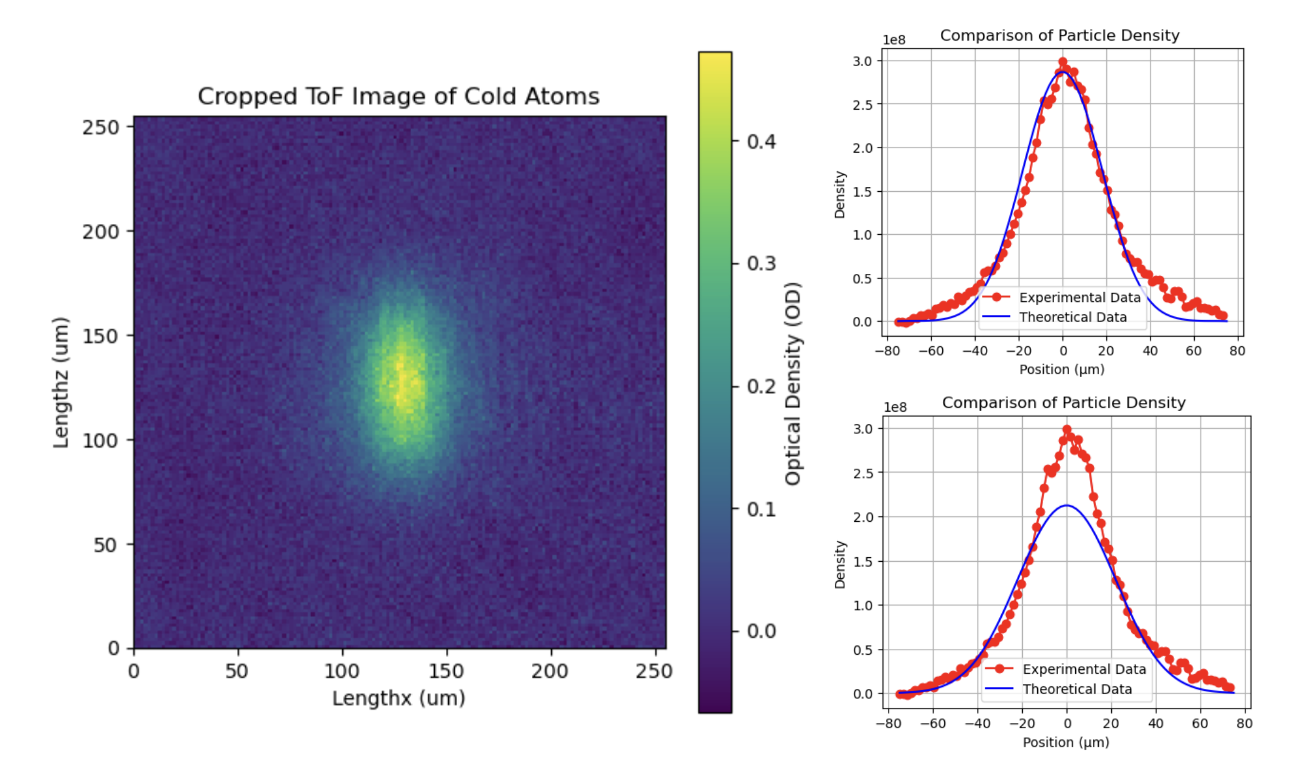
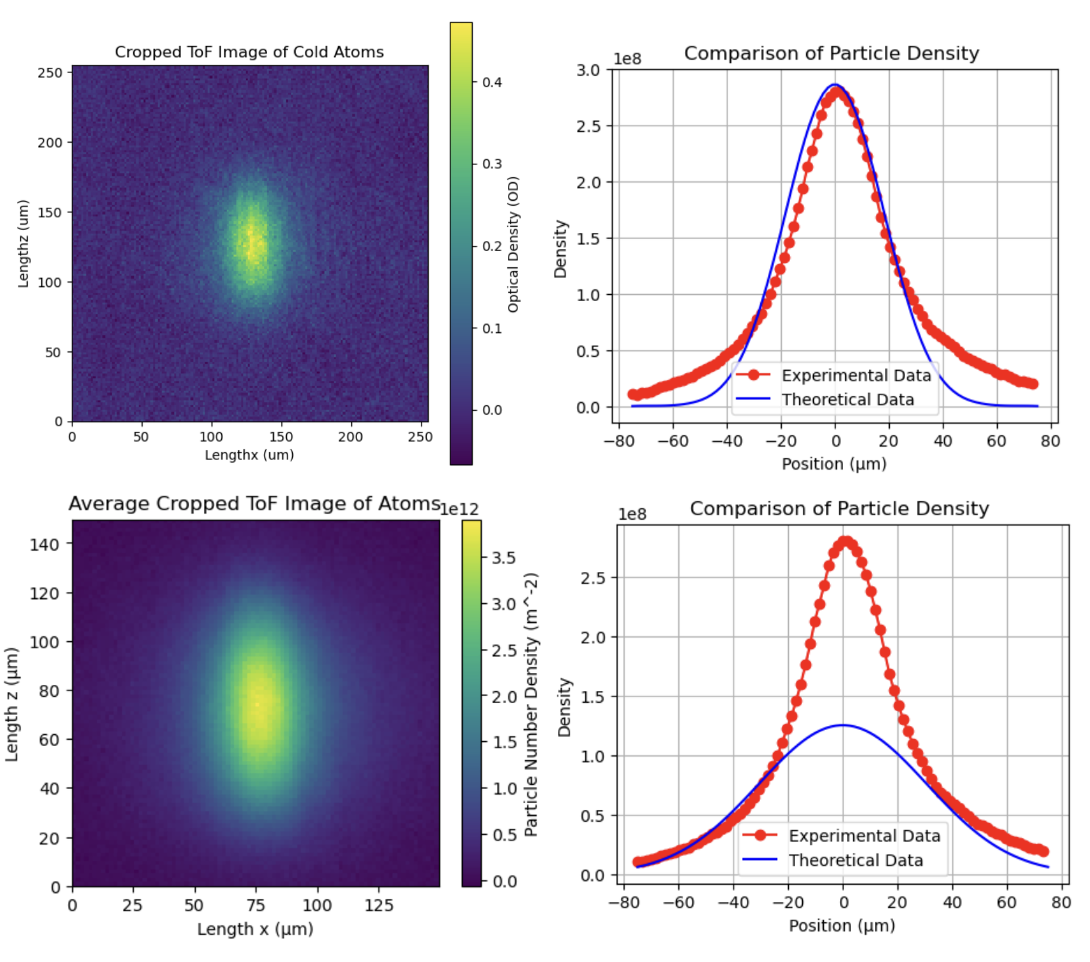
new

diff --git a/_Research/portfolio-4.md b/_Research/portfolio-4.md
@@ -15,3 +15,4 @@ Further, we can use this theoratical calculation to fit the experimental data. D
 
 <br/><img src='/images/ultracoldatom/fit.png'>
 
+Here, we average 30 optical density measurement of the samples and get the density distribution of the sample. We fit the measurement using the whole data(upperright) and its swing(lowerright). 
